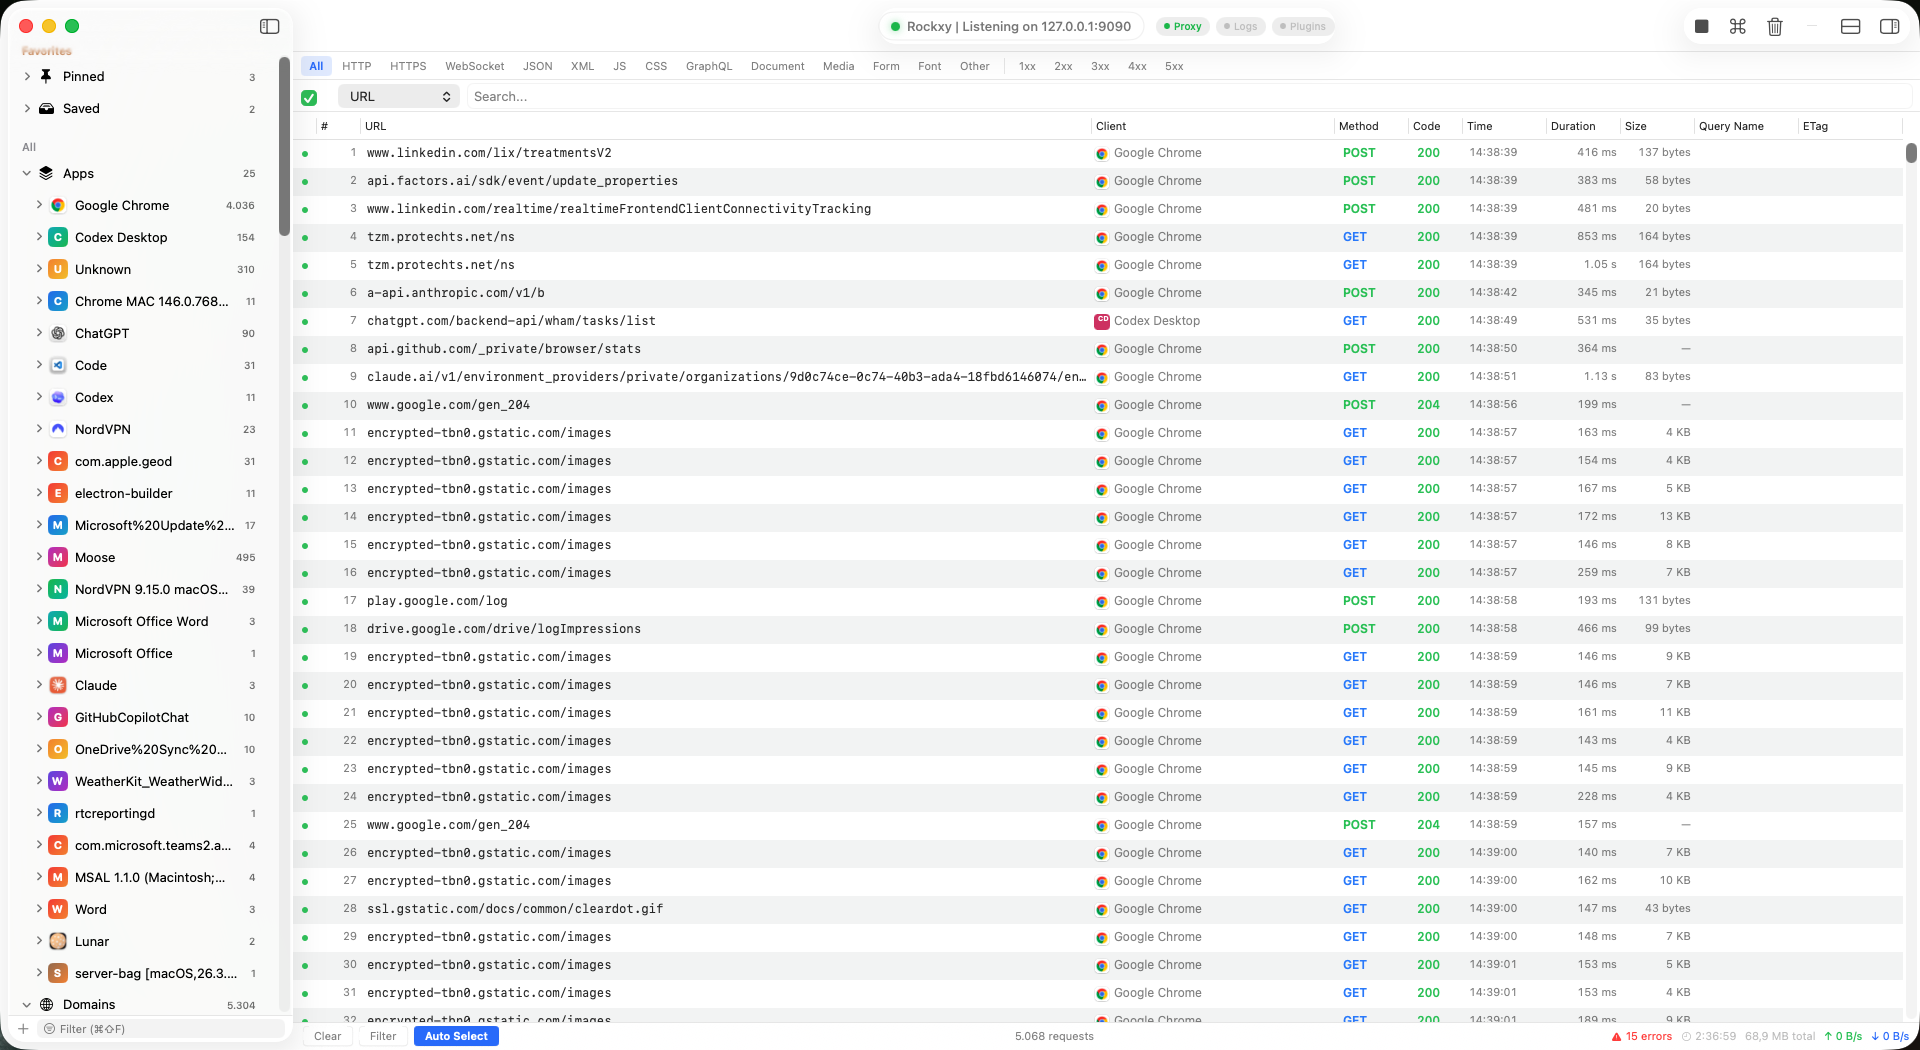
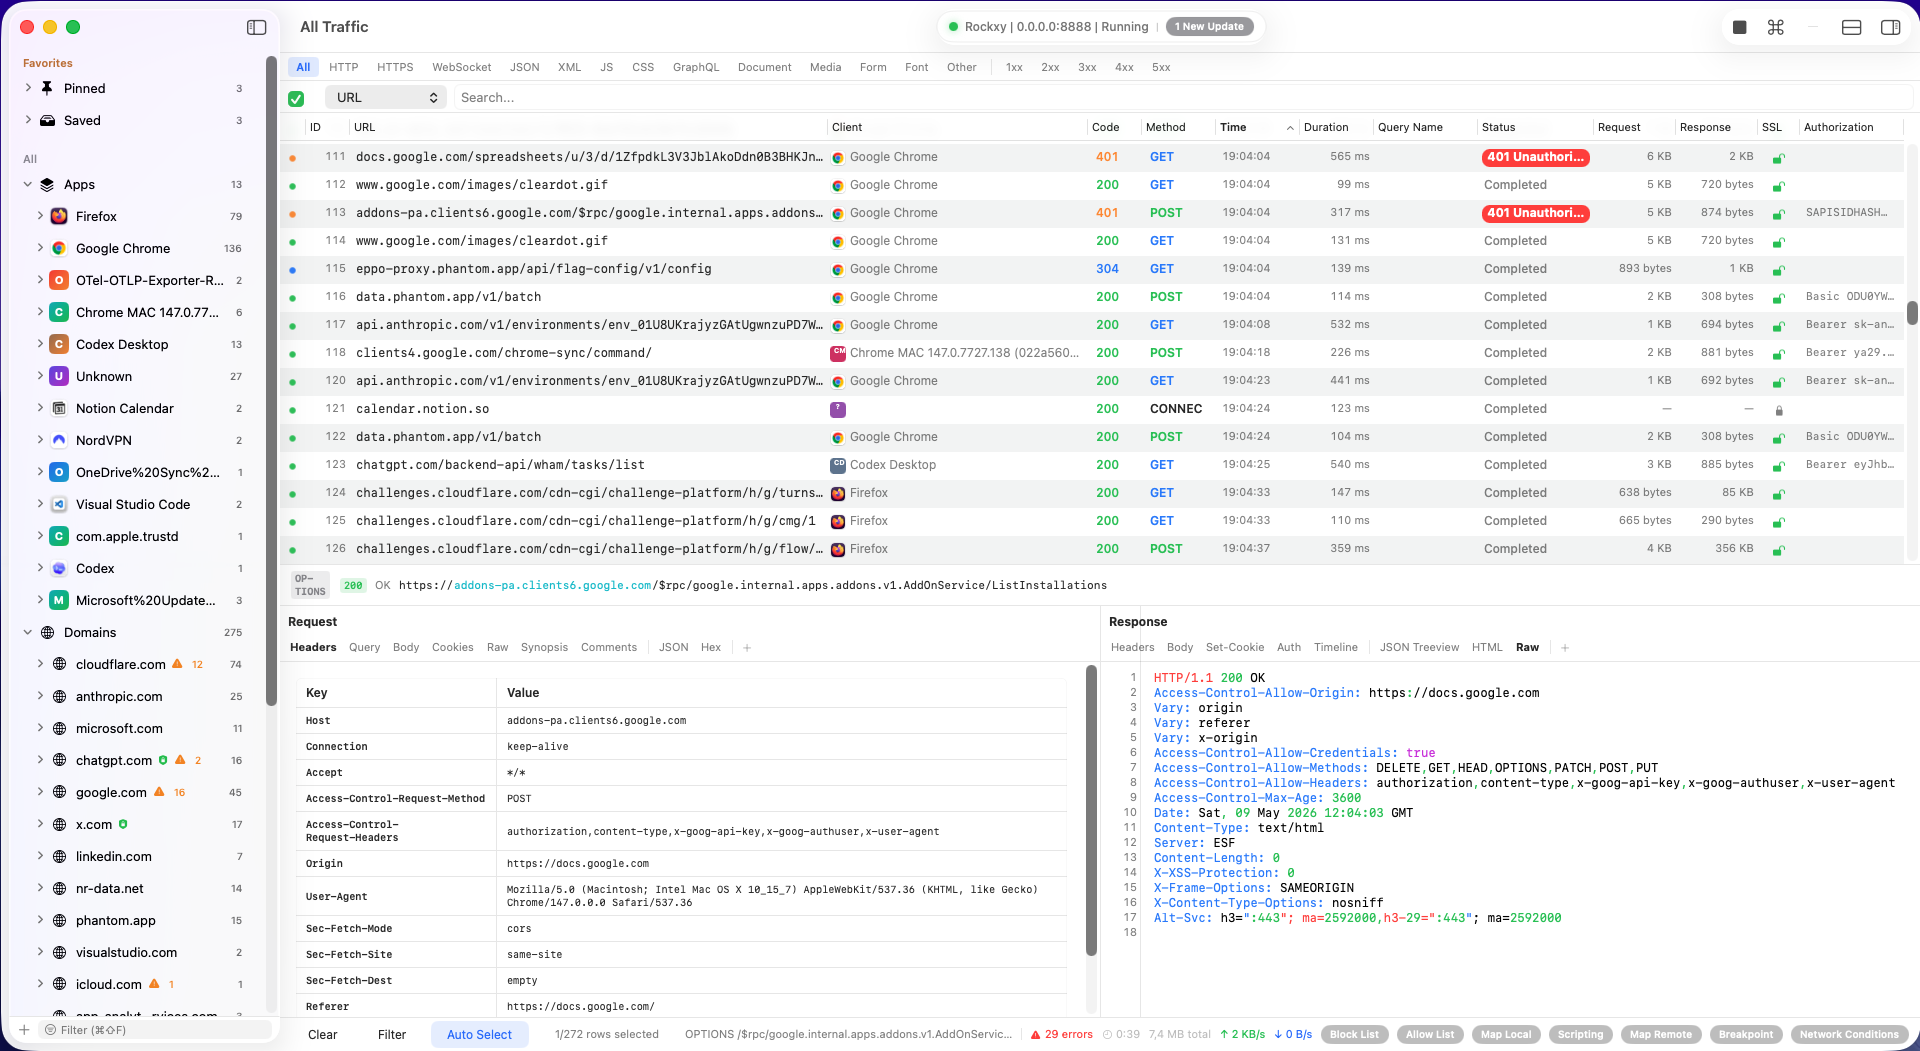
docs: update readme hero screenshot

diff --git a/README.fr.md b/README.fr.md
@@ -33,7 +33,7 @@
 </p>
 
 <p align="center">
-  <img src="docs/images/Rockxy-Dark.png" alt="Rockxy en cours d'ex&eacute;cution sur macOS" width="800" />
+  <img src="docs/images/Rockxy-Light.png" alt="Rockxy en cours d'ex&eacute;cution sur macOS" width="800" />
 </p>
 
 ---

diff --git a/README.ko.md b/README.ko.md
@@ -33,7 +33,7 @@
 </p>
 
 <p align="center">
-  <img src="docs/images/Rockxy-Dark.png" alt="macOS에서 실행 중인 Rockxy" width="800" />
+  <img src="docs/images/Rockxy-Light.png" alt="macOS에서 실행 중인 Rockxy" width="800" />
 </p>
 
 ---

diff --git a/README.ja.md b/README.ja.md
@@ -33,7 +33,7 @@
 </p>
 
 <p align="center">
-  <img src="docs/images/Rockxy-Dark.png" alt="macOS で動作中の Rockxy" width="800" />
+  <img src="docs/images/Rockxy-Light.png" alt="macOS で動作中の Rockxy" width="800" />
 </p>
 
 ---

diff --git a/README.zh.md b/README.zh.md
@@ -33,7 +33,7 @@
 </p>
 
 <p align="center">
-  <img src="docs/images/Rockxy-Dark.png" alt="Rockxy 在 macOS 上运行" width="800" />
+  <img src="docs/images/Rockxy-Light.png" alt="Rockxy 在 macOS 上运行" width="800" />
 </p>
 
 ---

diff --git a/README.vi.md b/README.vi.md
@@ -33,7 +33,7 @@
 </p>
 
 <p align="center">
-  <img src="docs/images/Rockxy-Dark.png" alt="Rockxy chạy trên macOS" width="800" />
+  <img src="docs/images/Rockxy-Light.png" alt="Rockxy chạy trên macOS" width="800" />
 </p>
 
 ---

diff --git a/README.md b/README.md
@@ -33,7 +33,7 @@
 </p>
 
 <p align="center">
-  <img src="docs/images/Rockxy-Dark.png" alt="Rockxy running on macOS" width="800" />
+  <img src="docs/images/Rockxy-Light.png" alt="Rockxy running on macOS" width="800" />
 </p>
 
 ---

diff --git a/README.de.md b/README.de.md
@@ -33,7 +33,7 @@
 </p>
 
 <p align="center">
-  <img src="docs/images/Rockxy-Dark.png" alt="Rockxy auf macOS" width="800" />
+  <img src="docs/images/Rockxy-Light.png" alt="Rockxy auf macOS" width="800" />
 </p>
 
 ---
